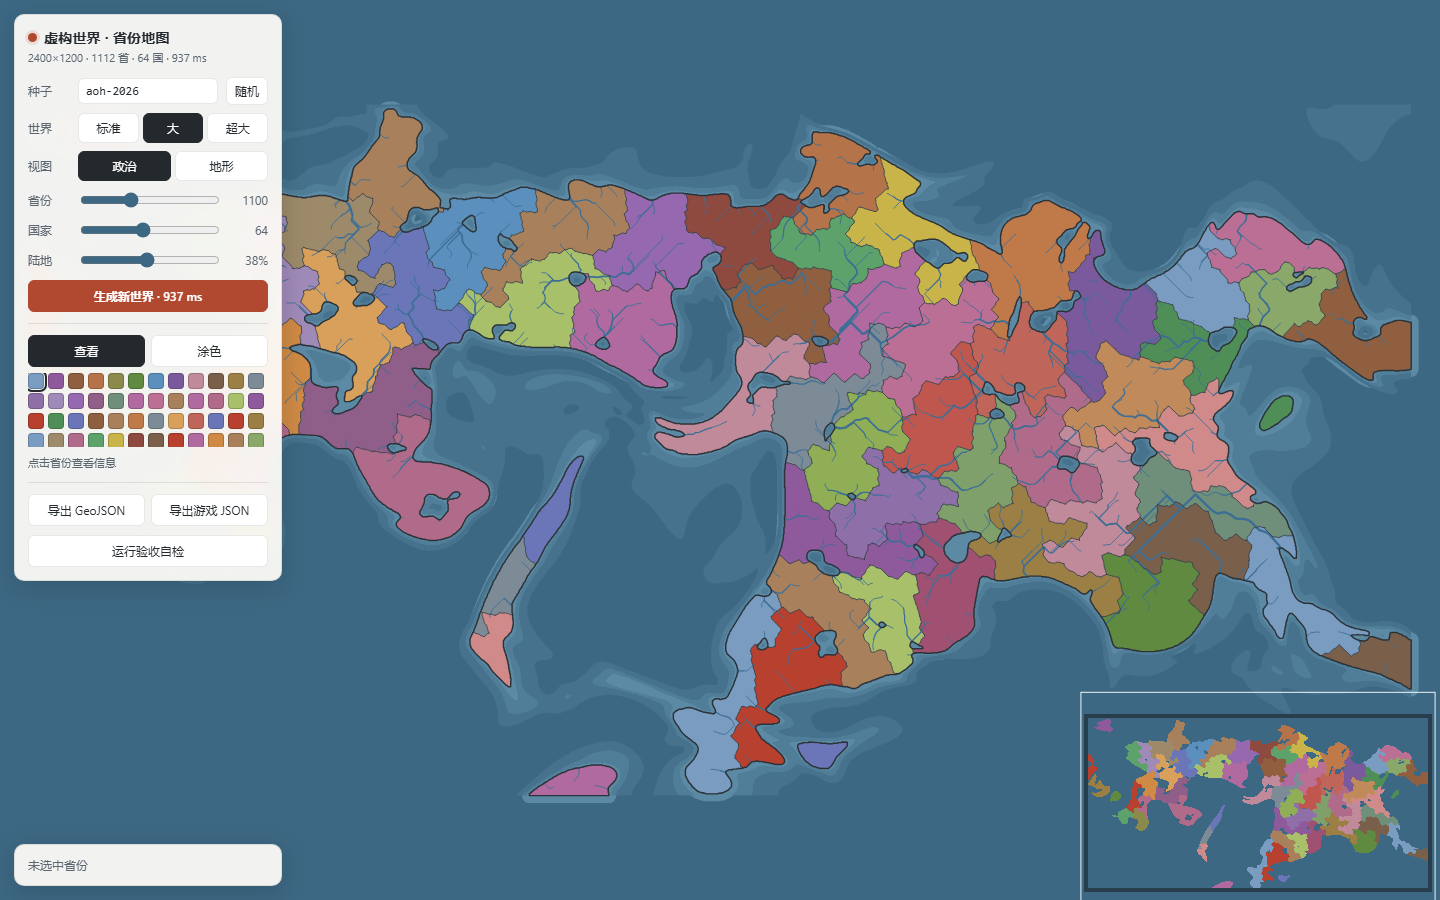
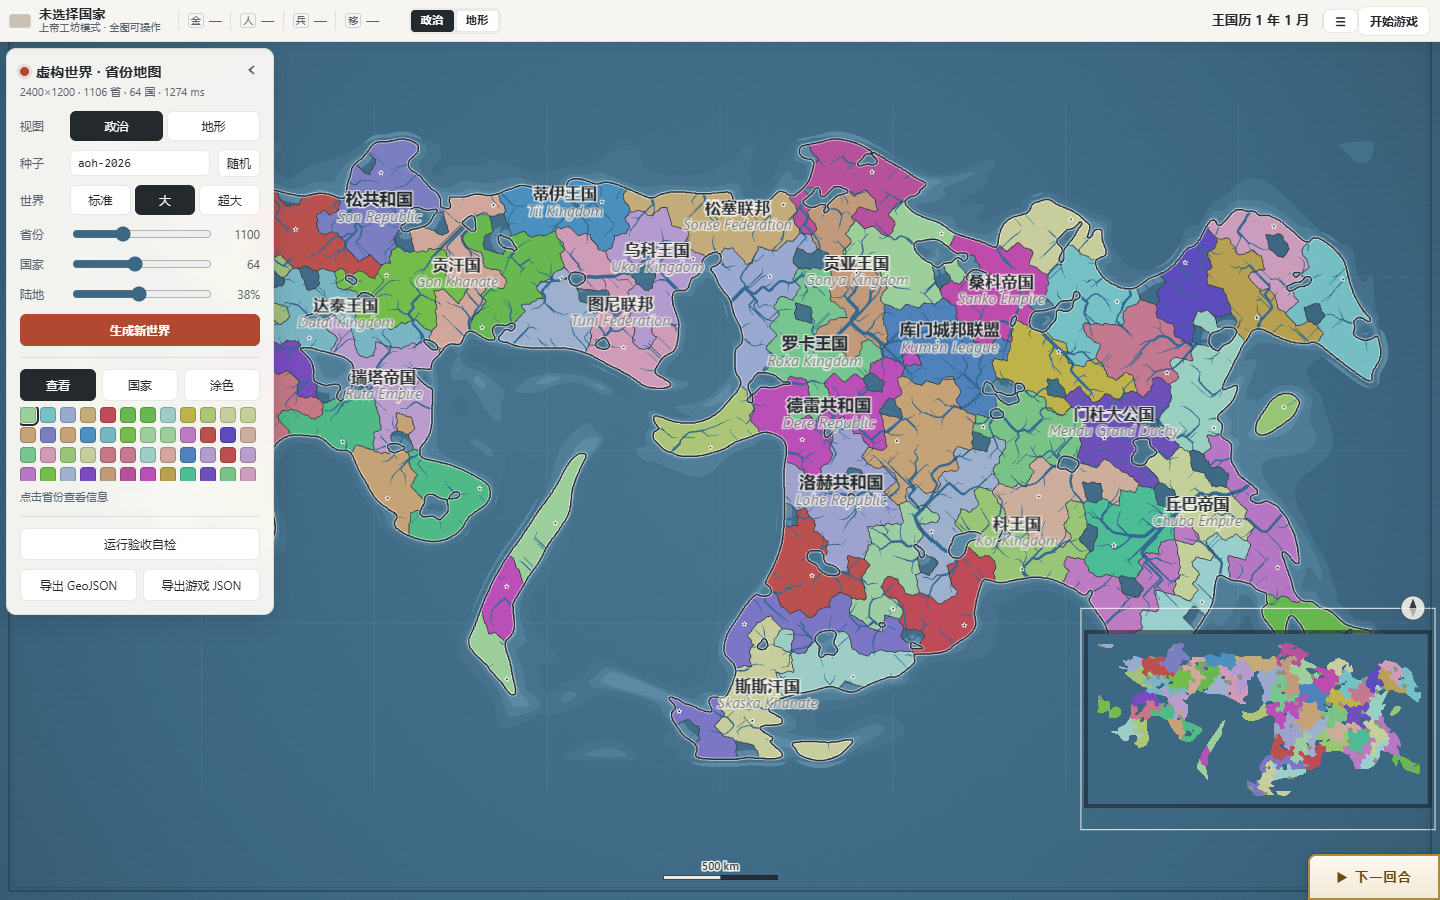
docs: README 补「界面（AoC2 版式）」一节、修目录与运行说明，重生成两张截图；对话记录补阶段七
- README：目录换成真实文件表（旧的 15-resources/16-events/18-ai 已删）；
  「怎么跑」改成新位置（右下角下一回合）；新增界面一节（五块骨架 / 兵牌 / 快捷键 / 窄屏）；
  军队那一行补兵数方牌；设计文档区把 v19 那几份单独标成旧制
- docs/screenshot-{world,game}.png 按现在的界面重拍（含兵牌）
- 开发对话记录：新增「阶段七 10-26~10-30」（AoC2 五阶段 + 界面返工三轮 + 兵牌 bug 的根因），
  验收数据拆成 4.1 旧制快照 / 4.2 AoC2 版两张表
- .gitignore 补 dist.bak*/

diff --git a/开发对话记录.md b/开发对话记录.md
@@ -1,7 +1,8 @@
 # 《山河纪》WorkBuddy 开发对话记录
 
-> 这份记录按"用户怎么说 → WorkBuddy 做了什么 → 结果是什么"整理，覆盖 2026-10-23 到 10-25 的
+> 这份记录按"用户怎么说 → WorkBuddy 做了什么 → 结果是什么"整理，覆盖 2026-10-23 到 10-30 的
 > 全部开发批次。文中的用户原话是从对话里摘出来的（含口语和错别字），数字来自当次实跑的测试输出。
+> 前半（阶段一~六）是自研规则那一版；**10-29 起整包换成《文明时代2》规则**，见阶段七。
 >
 > 说明：WorkBuddy 目前没有"一键导出 Markdown"的按钮（对话区顶部只有「分享任务」生成公开链接）。
 > 所以这份是按开发过程整理的**可读版**；如需逐字原文，见文末附录的三种取法。
@@ -15,9 +16,9 @@
 | 作品名 | 山河纪 |
 | 赛道 | 游戏 |
 | 使用工具 | WorkBuddy（全程） |
-| 开发时间 | 2026-10-23 ~ 10-25（约 3 天，全部在 WorkBuddy 里完成） |
+| 开发时间 | 2026-10-23 ~ 10-30（约 8 天，全部在 WorkBuddy 里完成） |
 | 形态 | 纯前端网页，零依赖零构建，双击 `index.html` 即玩 |
-| 代码量 | 约 1.9 万行原生 JS（20 个模块）+ 1900 行 HTML/CSS |
+| 代码量 | 约 2.36 万行原生 JS（22 个模块）+ 3350 行 `index.html`（含全部 CSS） |
 | 线上体验 | https://shanhe-ji.app.workbuddy.host/?sharecode=YDSWPL2JU5 |
 | 仓库 | https://github.com/Clannadgh/shanhe-ji |
 
@@ -156,6 +157,40 @@
 
 ---
 
+### 阶段七 · 10-26 ~ 10-30：整包换成《文明时代2》的规则，再照着它的界面重排
+
+这是后期最大的一次转向：不再自己设计机制，而是**以《规则书-文明时代2.md》为唯一口径**
+重写全部数值层，分五段推进 —— 骨架 / 战争 / 人心 / 庙堂 / 山海。旧的整套自研机制
+（官员 / 七种资源 / 工艺军事链 / 信仰 / 情报署 / 上解）打成 `legacy-v19` 标签退役。
+
+- **10-26 ~ 10-28**：军工产线 → 财政上解 → 建造分账 → 开局吏治（v17~v19）。
+  这一段是"旧规则最后一次扩写"，后来被 AoC2 整包取代，`git checkout legacy-v19` 才看得到。
+- **10-29 ~ 10-30**：AoC2 五阶段。每段都带一份 DESIGN-*.md 和一套 `test/aoc2-*.js`：
+  骨架 27 项 / 战争 36 项 / 人心 22 项 / 庙堂 30 项 / 外交 27 项 / 山海 31 项。
+  总平衡探针 `diag/aoc2-500.js` 跑 500 回合九条判据全过（64 国无一灭、疫病 4 场、黄金时代 137 次）。
+
+**界面那一段（10-30）值得单独记，因为它错了两次：**
+
+1. 用户：「你这个界面有点丑 你能不能照着文明时代二的弄一个一模一样的出来」
+   → 第一版凭**记忆**搭：国卡放右边、省卡放左侧竖栏、回合钮在顶栏。还顺手把配色改成了
+   深钢蓝。用户否掉配色：「之前那个颜色挺好看的，就是那个布局方式要和文明时代二一样」。
+2. 用户：「你确定一样了吗 你再好好看看」
+   → 去 Steam 官方 API 拉了 17 张截图（app 603850），发现三处硬伤：**国情栏在左上不在右侧、
+   省条是屏幕底部一条横条而不是竖卡、回合钮在右下角**。第二版按这个重排。
+3. 用户又一次：「你确定一样了吗 你再好好看看」（这次没直接说哪里不对）
+   → 把 1920×1080 截图**切成五块按原尺寸**看，又抓出四处：三块面板是**贴边**的（不是浮卡）、
+   国卡**没有页签**（是"国情 → Diplomacy → Decisions"的分节长栏）、省条左端有**省域缩略图**、
+   四颗大钮在省条上方、回合钮是**金边长方**（圆的那个是国色圆盘，看错了）。
+4. 用户：「征兵的时候我都不知道哪里有兵，都不会显示数字来的」
+   → 查出来是个**读空表**的 bug：地图画兵读的是旧制 `ARMY` 表，AoC2 迁移后那张表已经空了，
+   所以地图上从来没有一兵一卒，也不报错。改成读省上的 `p.aoc.army`，画「国色条 + 兵数」
+   小方牌；在途兵另画虚线 `+N`；省条军务行补「在途 N（下回合到）」。
+
+**这一段的教训**：截图必须**切块按原尺寸看**。整图缩到 1000px 时，"贴边 / 圆角 / 有没有页签 /
+圆钮还是方钮"全会糊成"差不多"；而"差不多"就是用户连着问两次"你确定一样了吗"的原因。
+
+---
+
 ## 3. 关键取舍（评委可能会问）
 
 | 取舍 | 为什么 |
@@ -169,7 +204,9 @@
 
 ---
 
-## 4. 验收数据（最后一次全量跑）
+## 4. 验收数据
+
+### 4.1 旧制（2026-10-25 收尾那次快照，脚本已随 AoC2 迁移删除）
 
 | 脚本 | 内容 | 结果 |
 | --- | --- | --- |
@@ -183,6 +220,23 @@
 
 性能（1100 省 / 64 国，本机无头 Chrome）：
 生成 1.4s；带迷雾的底图冷烘焙 47ms、滚轮缩放 8ms；情报 tick 1.6ms/回合。
+
+### 4.2 AoC2 版（2026-10-30 全量跑）
+
+| 脚本 | 内容 | 结果 |
+| --- | --- | --- |
+| `test/check.js` | 生成器 + AoC2 省模型（人口表 / 经济≤人口 / 发展度 / 核心 / 可复现） | 全部通过 |
+| `test/aoc2-core.js` | 骨架：结算顺序 / 加税→幸福 / 投资上限 / 三敕令 / 旧档拒读 | 27 / 27 |
+| `test/aoc2-war.js` | 战争：征兵 / 移动 / 宣战 / 地形防御 / 占领 / 战争分 / 和谈 / 厌战 | 36 / 36 |
+| `test/aoc2-people.js` | 人心：国籍 / 同化 / 革命 / 叛军 / 内战 / 政体九种 | 22 / 22 |
+| `test/aoc2-court.js` | 庙堂：建筑九格 / 科技 | 30 / 30 |
+| `test/aoc2-diplo.js` | 外交：21 种动作 / 附庸 / 贸易 / 大国 | 27 / 27 |
+| `test/aoc2-world.js` | 山海：殖民三方式 / 疾病 / 地形两表 / 黄金时代 / AI 性格 | 31 / 31 |
+| `test/interact.js` · `paint.js` · `labels.js` · `narrow.js` · `chrono.js` | 点选 / 涂色 / 注记 / 窄屏 / 编年史 46 项 | 全部通过 |
+
+总平衡（`node diag/aoc2-500.js 500`，64 国挂机 500 回合）：九条判据全过 ——
+无一国灭、国库无一国爆负、宣战 115 次 / 和谈 71 次、边地 T200 被瓜分完、
+疫病 4 场（峰值 17 省）、黄金时代 137 次、人口 150M → 960M、33ms/回合。
 
 ---
 
